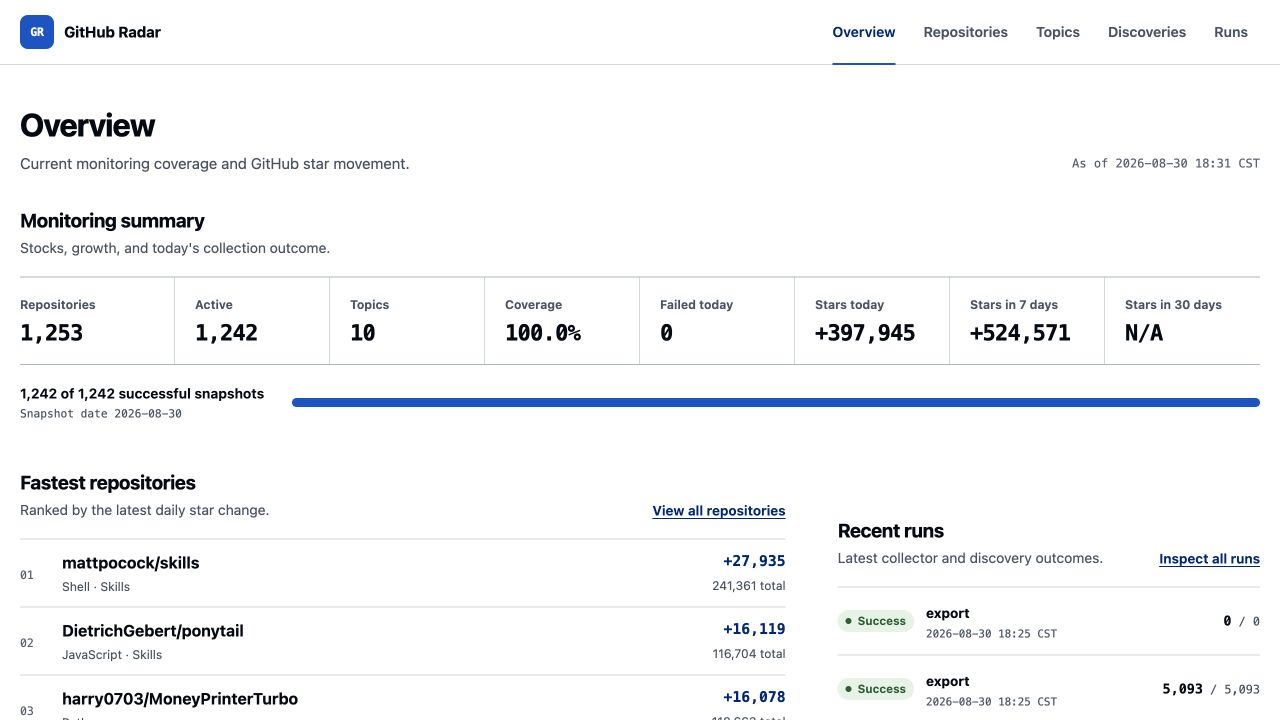
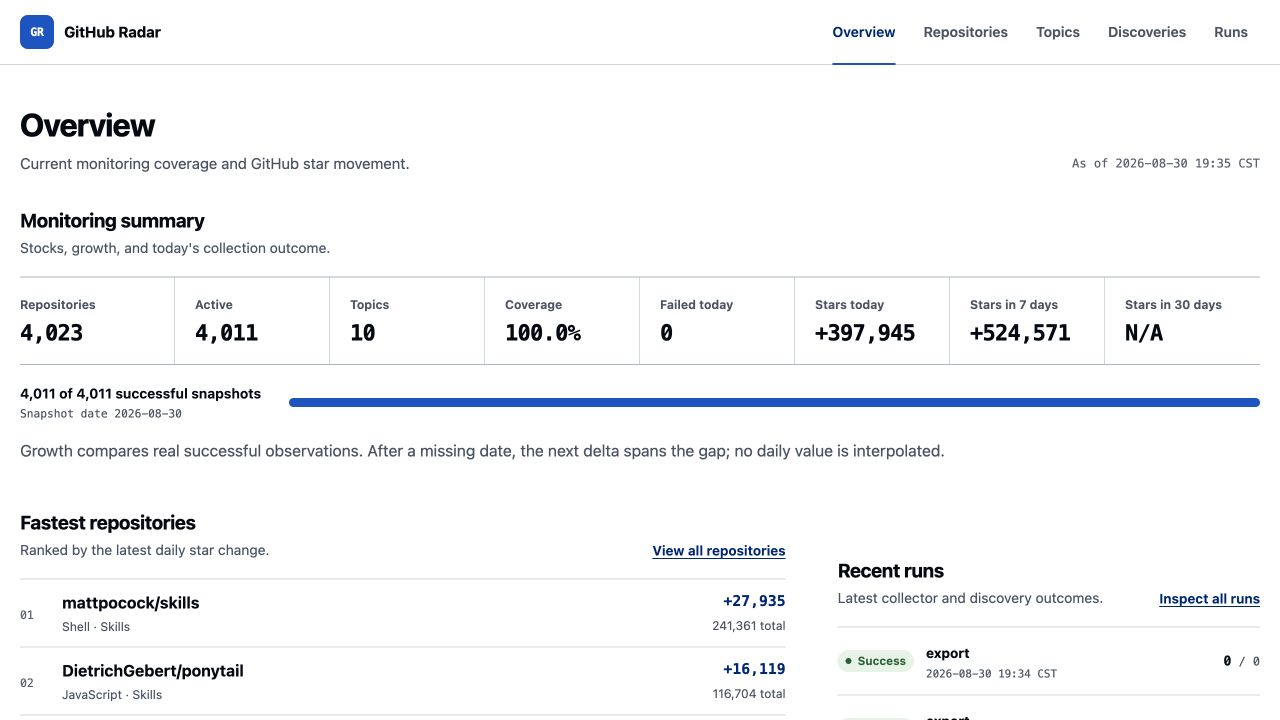
docs: publish production acceptance results
Records the sustainable 4,011-project panel, 100% active coverage, reconciled exports, live deployment, browser evidence, recoverable capacity correction, and known limits.\n\nCo-Authored-By: Codex <noreply@openai.com>

diff --git a/docs/acceptance-2026-08-30.md b/docs/acceptance-2026-08-30.md
@@ -1,0 +1,143 @@
+# Production acceptance report, 2026-08-30
+
+## Delivered endpoints and source
+
+- Public repository: <https://github.com/xz1220/github-radar>
+- First formal release: <https://github.com/xz1220/github-radar/releases/tag/v0.1.0>
+- Public dashboard: <https://github-radar.43-160-242-46.sslip.io>
+- Business host name: `tencent2`
+- Actual local SSH alias: `tecent2`
+
+The existing Python project remained at
+`/home/xingzheng/repos/ossinsight-feishu-digest-claude` with a clean worktree.
+Its user Cron remained unchanged at 09:00 Asia/Shanghai, and its latest observed
+run remained `sync_publish / success`.
+
+## Production layout
+
+- Binary: `/opt/github-radar/github-radar`
+- Database: `/var/lib/github-radar/github-radar.db`
+- Exports: `/var/lib/github-radar/exports`
+- Backups: `/var/lib/github-radar/backups`
+- Import evidence: `/var/lib/github-radar/import`
+- Environment: `/etc/github-radar/github-radar.env` (`root:github-radar`, 0640)
+- Discovery config: `/etc/github-radar/discovery.yaml`
+- Topic config: `/etc/github-radar/topics.yaml`
+- Cron: `/etc/cron.d/github-radar`, 09:15 Asia/Shanghai with `flock`
+- Web: `github-radar-web.service`, enabled and active
+- Reverse proxy: standalone Nginx host with a Certbot-managed ECDSA certificate
+  valid through 2026-11-28
+
+The Web process bound only to `127.0.0.1:8787`. Public HTTP redirected to HTTPS.
+All eight primary routes plus health and readiness returned HTTP 200.
+
+## Imported and discovered data
+
+Legacy SQLite import read all 1,169 repositories rather than only the 415-row
+catalog. The combined SQLite and Feishu-CSV import evaluated 4,978 real dated
+observations; 2,713 were inserted, 2,264 duplicate successful values were
+protected, and one fork observation was explicitly rejected because ordinary
+legacy discovery does not admit forks.
+
+The live Feishu bridge paginated both Base tables in batches of 200 and emitted
+3,402 CSV rows. Ten deleted or inaccessible repository names were reported as
+partial identity failures, not guessed or silently accepted.
+
+OSS Insight's four live windows produced 230 unique candidates, including 48
+new repositories. The final capacity-safe GitHub Search run covered:
+
+- `global-high-star`, 20,000-Star floor, weekly
+- `topic-popular`, weekly
+- `recently-created`, 500-Star floor over 30 days, daily
+- `recently-active`, 20,000-Star floor over 90 days, daily
+- `benchmark-projects`, owner-scoped, weekly
+- `monthly-coverage`, present but explicit opt-in
+
+The final real `run-daily` discovery merged 3,180 candidates and kept the active
+panel at 4,012 before one repeated 404 was paused. The sustainable final active
+population is 4,011, below the normal 5,000-request/hour Core API ceiling.
+
+## Final data counts and coverage
+
+| Measure | Count |
+|---|---:|
+| Repositories | 4,023 |
+| Active repositories | 4,011 |
+| Topics | 10 |
+| Repository-topic rows | 1,153 |
+| Daily snapshot rows | 6,610 |
+| Active repositories with a successful 2026-08-30 snapshot | 4,011 |
+| Active repositories missing a 2026-08-30 row | 0 |
+| Active panel coverage | 100% |
+
+The initial full-panel run fetched 1,122 new successes, reused 120 real same-day
+successes, and recorded five explicit 404 failures. The capacity-safe daily run
+then fetched 2,769 additional successes and recorded one new 404. Each 404 was
+retried once, retained as a failed row with `star_count=NULL`, marked
+`unreachable`, and paused without deleting history:
+
+- `amirappleidfd-stack/spider--panel`
+- `Contrary7nit/SteamDaddy`
+- `DuarteSantos8/openGym`
+- `NeedInvestor/Imei-Repair-tool`
+- `Nervercc/gpt_nerver`
+- `yuhuangerdi/InduSecAgent`
+
+## Export reconciliation
+
+Final artifacts:
+
+- CSV directory:
+  `/var/lib/github-radar/exports/github-radar-20260830T113413Z-csv`
+- JSON:
+  `/var/lib/github-radar/exports/github-radar-20260830T113414Z.json`
+- SQLite:
+  `/var/lib/github-radar/backups/github-radar-20260830T113415Z.db`
+
+Repository, snapshot, Topic, and assignment counts matched exactly across the
+live database, five CSV files, JSON, and SQLite backup: `4,023 / 6,610 / 10 /
+1,153`. CSV failure stars were empty rather than zero.
+
+An early live capacity experiment was fully recoverable: the oversized database
+and WAL evidence were moved under `/var/lib/github-radar/backups`, and the live
+database was atomically restored from the reconciled 1,253-project export before
+the sustainable thresholds were rerun. No production history was silently
+deleted.
+
+## Automated and independent verification
+
+- `gofmt -l .`: clean
+- `go vet ./...`: passed
+- `go test ./...`: passed
+- `go test -race ./...`: passed
+- linux/amd64 static build: passed
+- `govulncheck v1.7.0`: no vulnerabilities found
+- TruffleHog current tree and full history: zero real secrets
+- GitHub Actions on the public repository: passed
+- Kimi Code architecture review: P0=0, Gate PASS with conditions, all addressed
+- Kimi Code adversarial review and recheck: P0=0, P1=0, Gate PASS
+- Kimi Code fresh-clone release audit: P0=0, P1=0, Gate PASS
+
+Review evidence is in `docs/reviews/`. Browser evidence is in
+`docs/screenshots/` and covers desktop, mobile navigation, repository filtering,
+details, Star and OSS rank charts, and task runs. Topics, Discoveries, health,
+and readiness also opened in the isolated browser.
+
+## Known limits and follow-ups
+
+1. GitHub does not expose exact daily Star totals from before monitoring began.
+   Pages show the effective history start, and missing dates remain missing.
+2. A delta after a gap spans the two real successful observations. It is not
+   interpolated into synthetic daily values.
+3. GitHub 404 cannot reliably distinguish deletion from an inaccessible private
+   repository; repeated 404s are recorded as `not_found_or_private`, marked
+   unreachable, and paused for manual review.
+4. Root-disk utilization was 86.6-86.7% during acceptance. Doctor and daily job
+   details expose the warning; retention is configured for 30 days. Disk cleanup
+   or expansion remains recommended.
+5. The deployed token is the host's existing authenticated GitHub OAuth token,
+   stored outside the repository with mode 0640. A dedicated fine-grained,
+   read-only token is a recommended hardening step.
+6. Activity, commit, release, README, causality, scoring, and investment advice
+   remain deliberately outside v0.1.x.
+

diff --git a/README.md b/README.md
@@ -291,6 +291,9 @@ SQL/CSV/JSON/Web consistency checks, desktop and mobile browser screenshots,
 a clean-clone build, secret scanning, and independent review. See
 [testing](docs/testing.md).
 
+The first production acceptance evidence is in
+[docs/acceptance-2026-08-30.md](docs/acceptance-2026-08-30.md).
+
 ## Privacy and security
 
 GitHub Radar stores public repository metadata, discovery provenance, topics,
